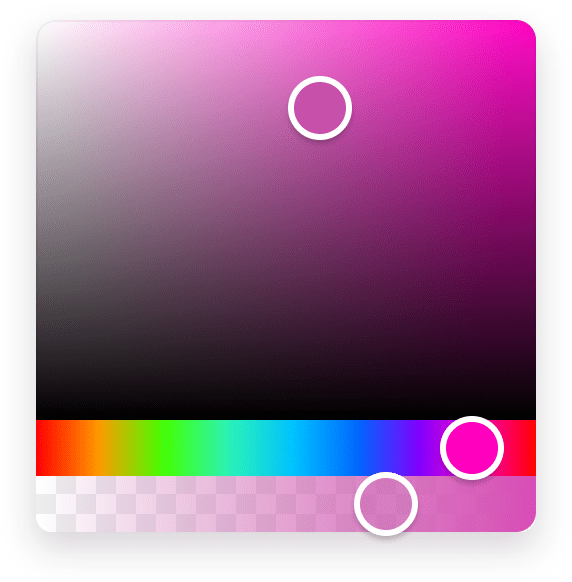
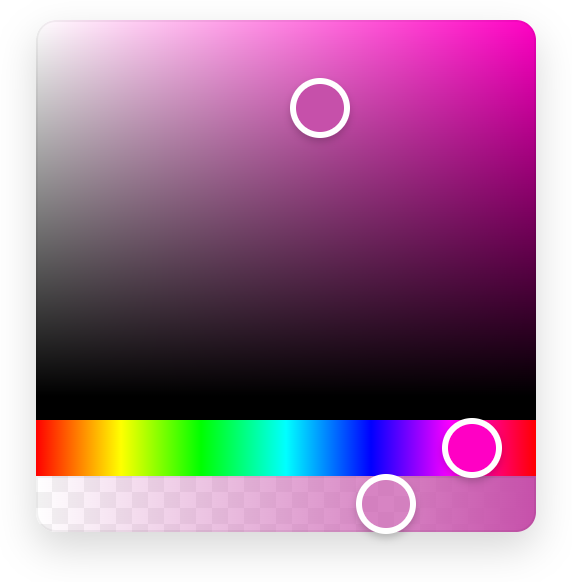
Fix broken README badges and size table (#251)

diff --git a/README.md b/README.md
@@ -1,28 +1,14 @@
 <div align="center">
-  <a href="https://react-colorful.com">
-    <img src="demo/src/assets/design.png" width="229" height="233" alt="react-colorful" />
-  </a>
+  <a href="https://react-colorful.com"><img src="demo/src/assets/design.png" width="229" height="233" alt="react-colorful" /></a>
 </div>
 
 <div align="center">
-  <a href="https://npmjs.org/package/react-colorful">
-    <img alt="npm" src="https://img.shields.io/npm/v/react-colorful.svg?labelColor=da248d&color=6ead0a" />
-  </a>
-  <a href="https://github.com/omgovich/react-colorful/actions">
-    <img alt="build" src="https://img.shields.io/github/workflow/status/omgovich/react-colorful/Node.js%20CI/master.svg?labelColor=da248d&color=6ead0a" />
-  </a>
-  <a href="https://codecov.io/gh/omgovich/react-colorful">
-    <img alt="coverage" src="https://img.shields.io/codecov/c/github/omgovich/react-colorful.svg?labelColor=da248d&color=6ead0a" />
-  </a>
-  <a href="https://npmjs.org/package/react-colorful">
-    <img alt="no dependencies" src="https://badgen.net/bundlephobia/dependency-count/react-colorful?labelColor=da248d&color=6ead0a" />
-  </a>
-  <a href="https://bundlephobia.com/result?p=react-colorful">
-    <img alt="tree-shakeable" src="https://badgen.net/bundlephobia/tree-shaking/react-colorful?labelColor=da248d&color=6ead0a" />
-  </a>
-  <a href="https://npmjs.org/package/react-colorful">
-    <img alt="types included" src="https://badgen.net/npm/types/react-colorful?labelColor=da248d&color=6ead0a" />
-  </a>
+  <a href="https://npmjs.org/package/react-colorful"><img alt="npm" src="https://img.shields.io/npm/v/react-colorful.svg?labelColor=da248d&color=6ead0a" /></a>
+  <a href="https://github.com/omgovich/react-colorful/actions"><img alt="build" src="https://img.shields.io/github/actions/workflow/status/omgovich/react-colorful/node.yml?branch=master&labelColor=da248d&color=6ead0a" /></a>
+  <a href="https://codecov.io/gh/omgovich/react-colorful"><img alt="coverage" src="https://img.shields.io/codecov/c/github/omgovich/react-colorful.svg?labelColor=da248d&color=6ead0a" /></a>
+  <a href="https://npmjs.org/package/react-colorful"><img alt="no dependencies" src="https://img.shields.io/badge/dependencies-0-6ead0a?labelColor=da248d" /></a>
+  <a href="https://bundlephobia.com/result?p=react-colorful"><img alt="tree-shakeable" src="https://img.shields.io/badge/tree--shakeable-yes-6ead0a?labelColor=da248d" /></a>
+  <a href="https://npmjs.org/package/react-colorful"><img alt="types included" src="https://badgen.net/npm/types/react-colorful?labelColor=da248d&color=6ead0a" /></a>
 </div>
 
 <div align="center">
@@ -278,14 +264,16 @@ Today each dependency drags more dependencies and increases your project’s bun
 - built with hooks and functional components only (no classes and polyfills for them);
 - ships only a minimal amount of manually optimized color conversion algorithms (while most of the popular pickers import entire color manipulation libraries that increase the bundle size by more than 10 KB and make your app slower).
 
-To show you the problem that **react-colorful** is trying to solve, we have performed a simple benchmark (using [bundlephobia.com](https://bundlephobia.com)) against popular React color picker libraries:
+To show you the problem that **react-colorful** is trying to solve, we have compared the bundle size of popular React color picker libraries:
 
-| Name               | Bundle size                                                                                                                        | Bundle size (gzip)                                                                                                                    | Dependencies                                                                                                                                    |
-| ------------------ | ---------------------------------------------------------------------------------------------------------------------------------- | ------------------------------------------------------------------------------------------------------------------------------------- | ----------------------------------------------------------------------------------------------------------------------------------------------- |
-| **react-colorful** | [![](https://badgen.net/bundlephobia/min/react-colorful?color=6ead0a&label=)](https://bundlephobia.com/result?p=react-colorful)    | [![](https://badgen.net/bundlephobia/minzip/react-colorful?color=6ead0a&label=)](https://bundlephobia.com/result?p=react-colorful)    | [![](https://badgen.net/bundlephobia/dependency-count/react-colorful?color=6ead0a&label=)](https://bundlephobia.com/result?p=react-colorful)    |
-| react-color        | [![](https://badgen.net/bundlephobia/min/react-color?color=red&label=)](https://bundlephobia.com/result?p=react-color)             | [![](https://badgen.net/bundlephobia/minzip/react-color?color=red&label=)](https://bundlephobia.com/result?p=react-color)             | [![](https://badgen.net/bundlephobia/dependency-count/react-color?color=red&label=)](https://bundlephobia.com/result?p=react-color)             |
-| react-input-color  | [![](https://badgen.net/bundlephobia/min/react-input-color?color=red&label=)](https://bundlephobia.com/result?p=react-input-color) | [![](https://badgen.net/bundlephobia/minzip/react-input-color?color=red&label=)](https://bundlephobia.com/result?p=react-input-color) | [![](https://badgen.net/bundlephobia/dependency-count/react-input-color?color=red&label=)](https://bundlephobia.com/result?p=react-input-color) |
-| rc-color-picker    | [![](https://badgen.net/bundlephobia/min/rc-color-picker?color=red&label=)](https://bundlephobia.com/result?p=rc-color-picker)     | [![](https://badgen.net/bundlephobia/minzip/rc-color-picker?color=red&label=)](https://bundlephobia.com/result?p=rc-color-picker)     | [![](https://badgen.net/bundlephobia/dependency-count/rc-color-picker?color=red&label=)](https://bundlephobia.com/result?p=rc-color-picker)     |
+| Name               | Bundle size | Bundle size (gzip) | Dependencies |
+| ------------------ | ----------: | -----------------: | -----------: |
+| **react-colorful** | **14.1 KB** |         **4.8 KB** |        **0** |
+| react-color        |    151.2 KB |            44.3 KB |            7 |
+| react-input-color  |     56.2 KB |            20.5 KB |            6 |
+| rc-color-picker    |    121.0 KB |            37.2 KB |            5 |
+
+Measured in November 2026 for the latest version of each package: the whole package bundled with esbuild, minified and gzipped, with React excluded. A single tree-shaken `HexColorPicker` is 3.4 KB gzipped, while react-color is not tree-shakeable: importing only its `ChromePicker` still adds 44.1 KB.
 
 ## Projects using react-colorful
 
